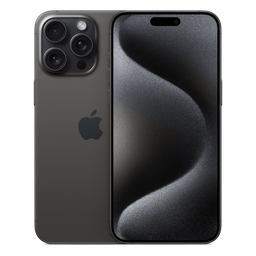
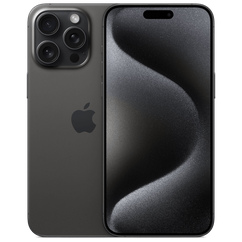
fix: crop iPhone 15 image edges (3% trim) to remove bars

diff --git a/src/app/page.tsx b/src/app/page.tsx
@@ -38,7 +38,7 @@ const IPHONE_SERIES = [
       { id: "iphone16pro", label: "iPhone 16 Pro", size: '6.3"' },
       { id: "iphone16promax", label: "iPhone 16 Pro Max", size: '6.9"' },
     ]},
-  { id: "15", label: "iPhone 15", year: "2023", frame: "#2C2C2E", accent: "#0071e3", notch: "dynamic", cameras: 3, edges: "round", image: "/iphone15.png?v=2",
+  { id: "15", label: "iPhone 15", year: "2023", frame: "#2C2C2E", accent: "#0071e3", notch: "dynamic", cameras: 3, edges: "round", image: "/iphone15.png?v=3",
     variants: [
       { id: "iphone15", label: "iPhone 15", size: '6.1"' },
       { id: "iphone15plus", label: "iPhone 15 Plus", size: '6.7"' },
@@ -687,7 +687,7 @@ export default function Home() {
                       style={{ animationDelay: `${idx * 0.06}s` }}
                     >
                       {(s as { image?: string }).image ? (
-                        <img src={(s as { image?: string }).image} alt={s.label} className="w-16 h-16 object-contain mb-2 group-hover:scale-110 transition-transform" style={s.id === "15" ? { transform: "scale(1.12)" } : s.id === "16" ? { transform: "scale(1.07)" } : undefined} />
+                        <img src={(s as { image?: string }).image} alt={s.label} className="w-16 h-16 object-contain mb-2 group-hover:scale-110 transition-transform" style={s.id === "16" ? { transform: "scale(1.07)" } : undefined} />
                       ) : (
                         <div className="icon-circle w-12 h-12 rounded-full bg-white/50 flex items-center justify-center mb-2 group-active:bg-white/20 transition-colors">
                           <span className="text-2xl">📱</span>
